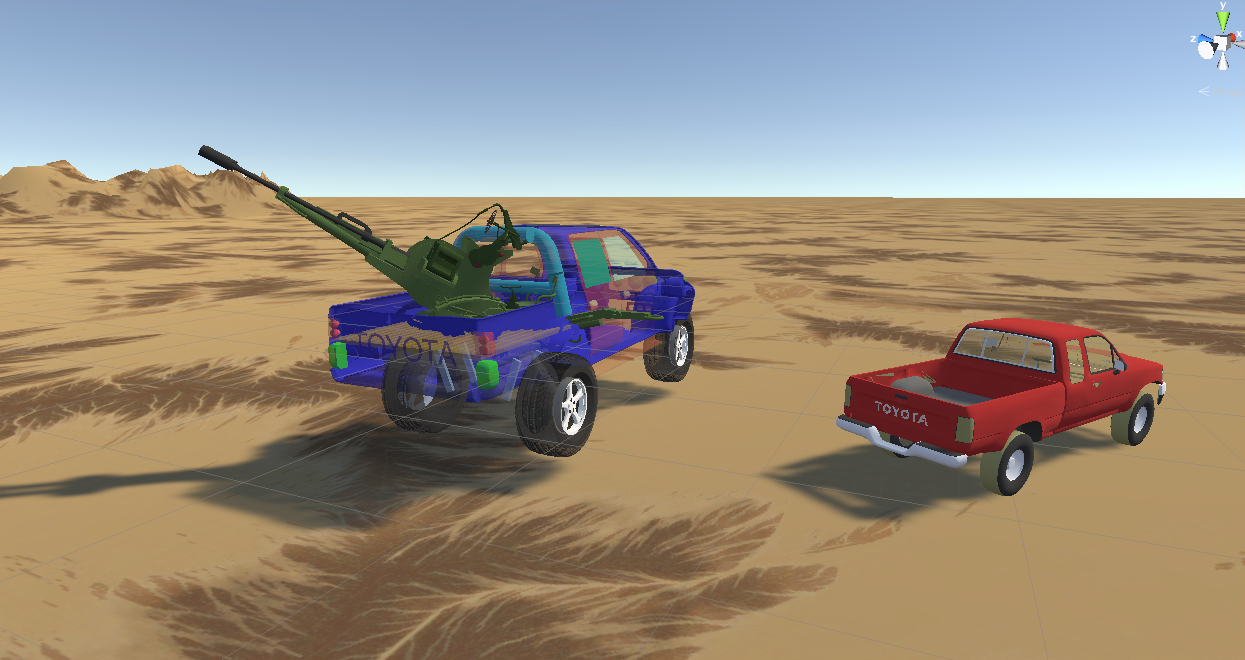
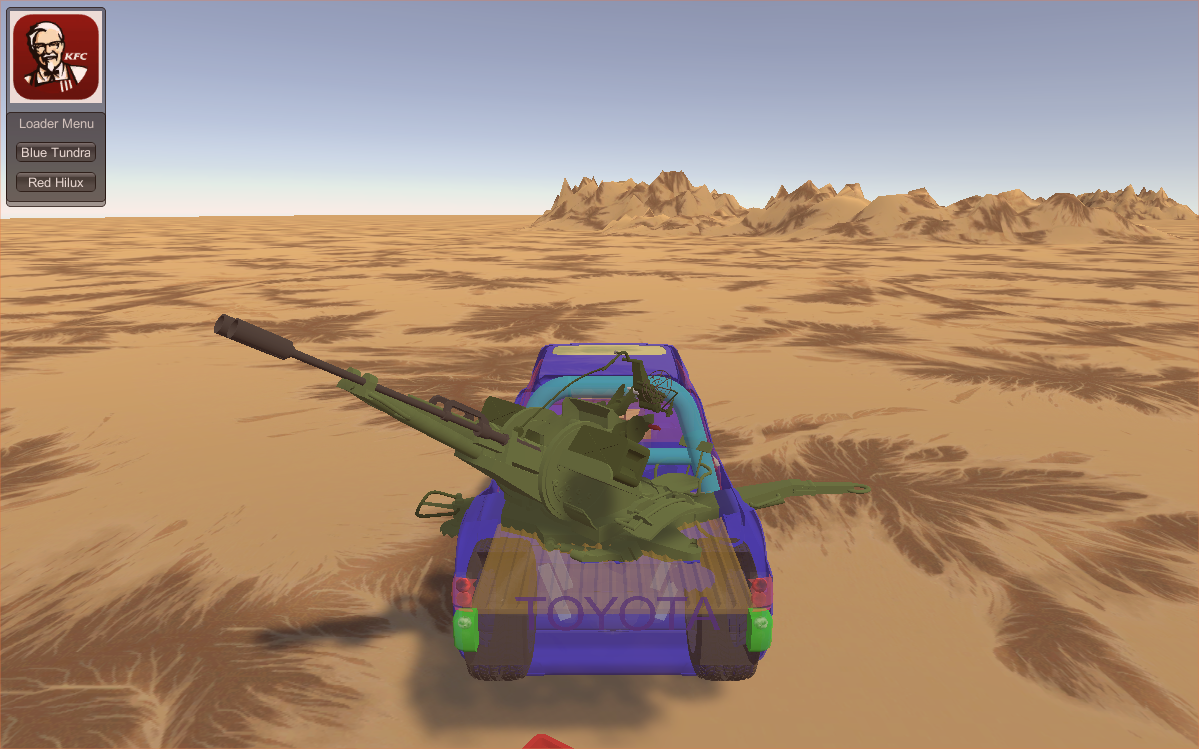
queen astarte red lipstick ..

diff --git a/Assets/Scripts/GUIDisplay.cs b/Assets/Scripts/GUIDisplay.cs
@@ -4,6 +4,9 @@ using UnityEngine;
 
 public class GUIDisplay : MonoBehaviour {
 
+
+	public Texture crispyLogo;
+
 	// Use this for initialization
 	void Start () {
 		
@@ -16,17 +19,19 @@ public class GUIDisplay : MonoBehaviour {
 
 	void OnGUI ()
 	{
+		GUI.Box (new Rect (10,10,100,200), new GUIContent(crispyLogo));
 		// Make a background box
-		GUI.Box(new Rect(10,10,100,90), "Loader Menu");
+		GUI.Box(new Rect(10,115,100,90), "Loader Menu");
+		//GUI.Button (new Rect (10,10,100,20), new GUIContent ("Click me", icon, "This is the tooltip"));
 
 		// Make the first button. If it is pressed, Application.Loadlevel (1) will be executed
-		if(GUI.Button(new Rect(20,40,80,20), "Blue Tundra"))
+		if(GUI.Button(new Rect(20,145,80,20), "Blue Tundra"))
 		{
 			//Application.LoadLevel(1);
 		}
 
 		// Make the second button.
-		if(GUI.Button(new Rect(20,70,80,20), "Red Hilux")) 
+		if(GUI.Button(new Rect(20,175,80,20), "Red Hilux")) 
 		{
 			//Application.LoadLevel(2);
 		}
